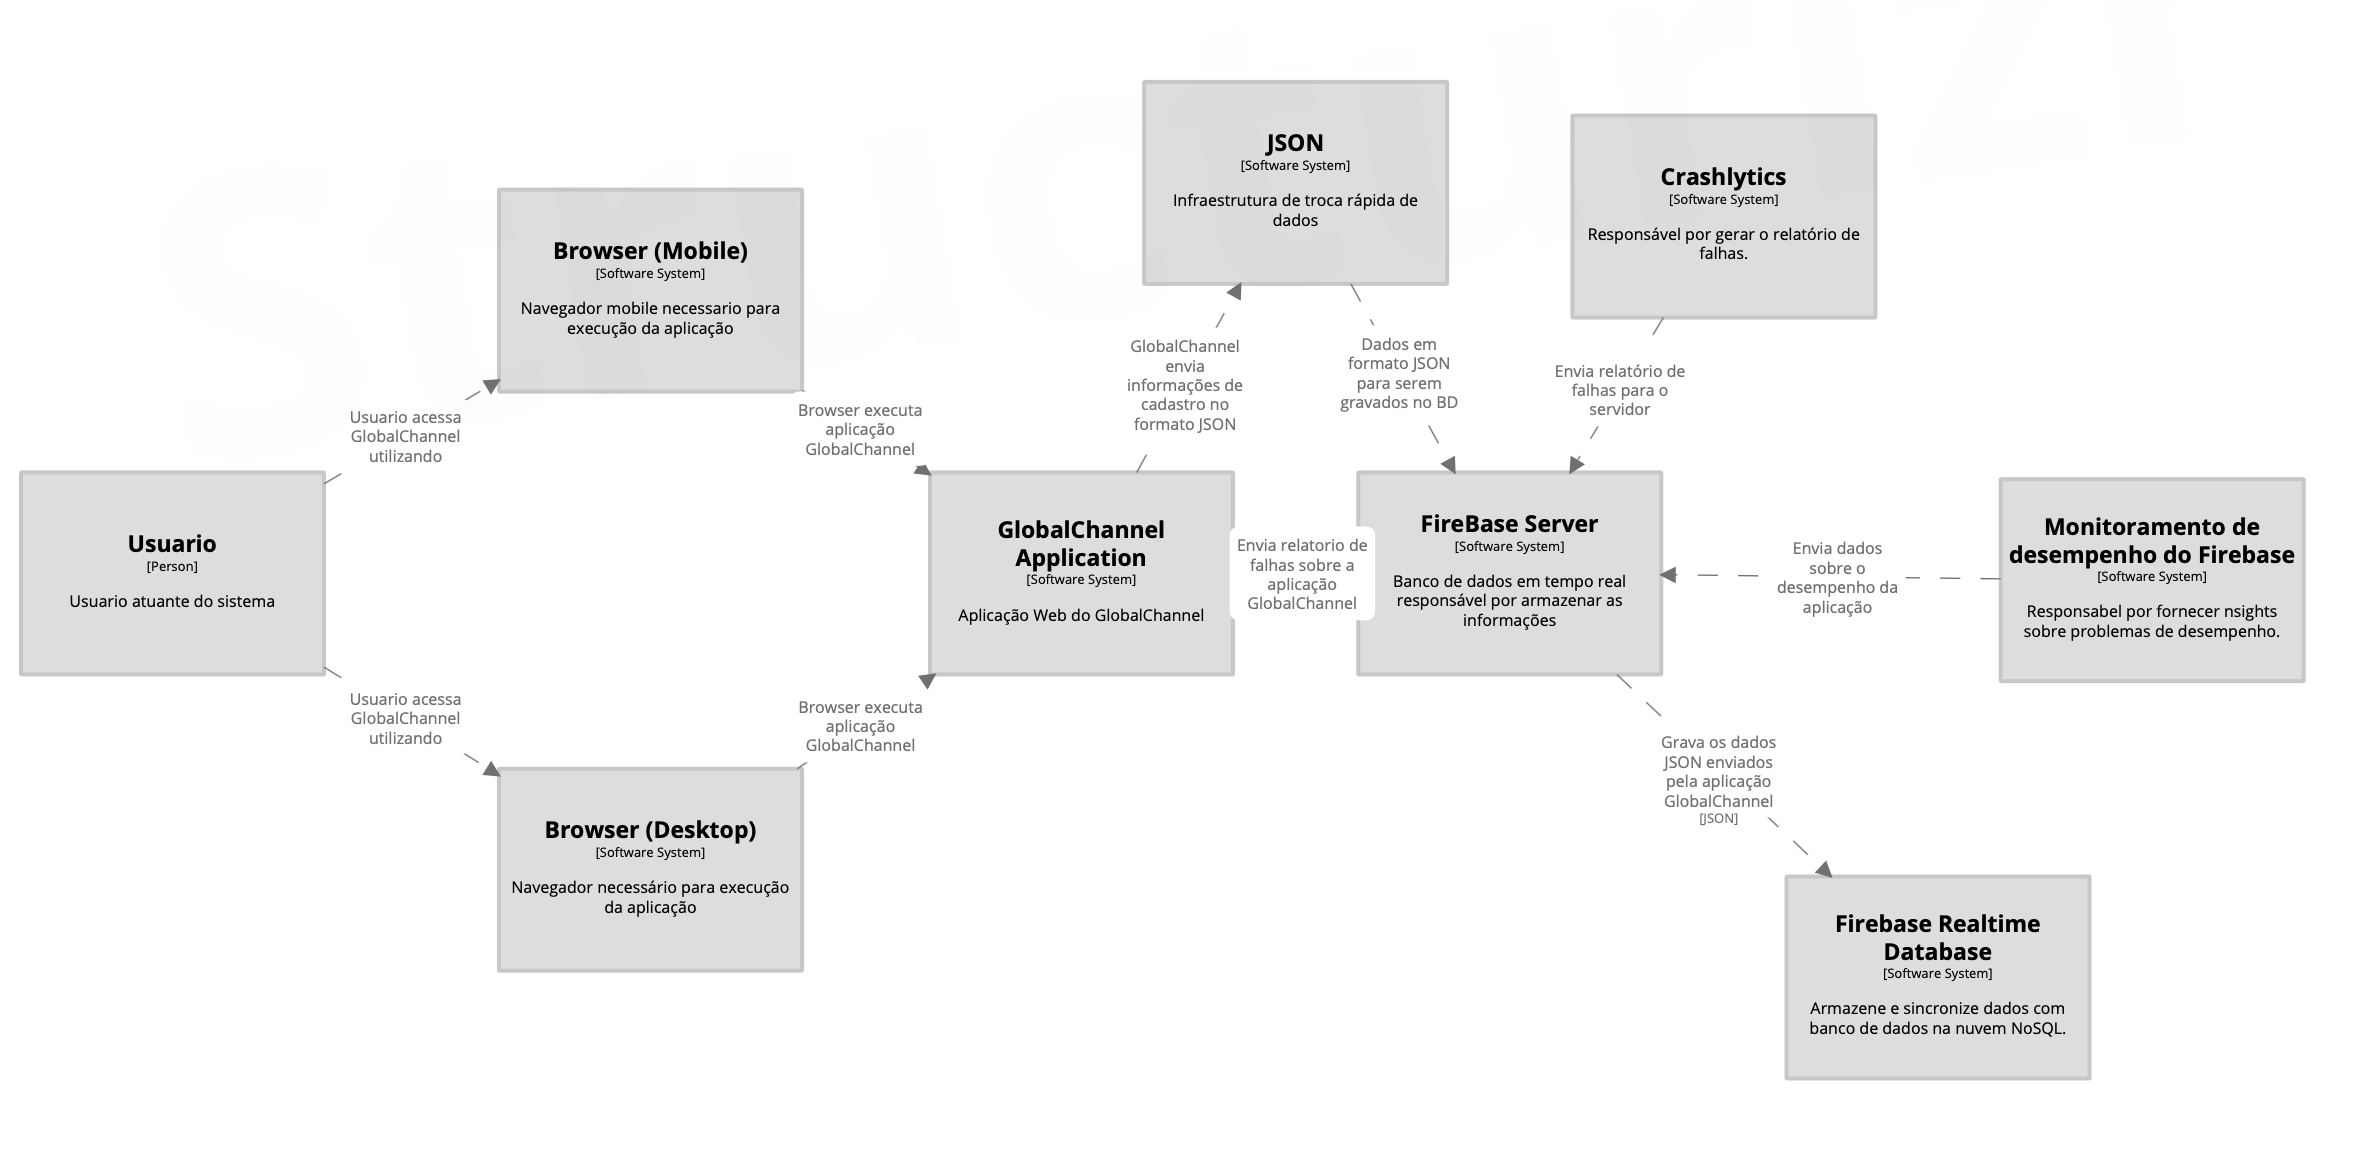
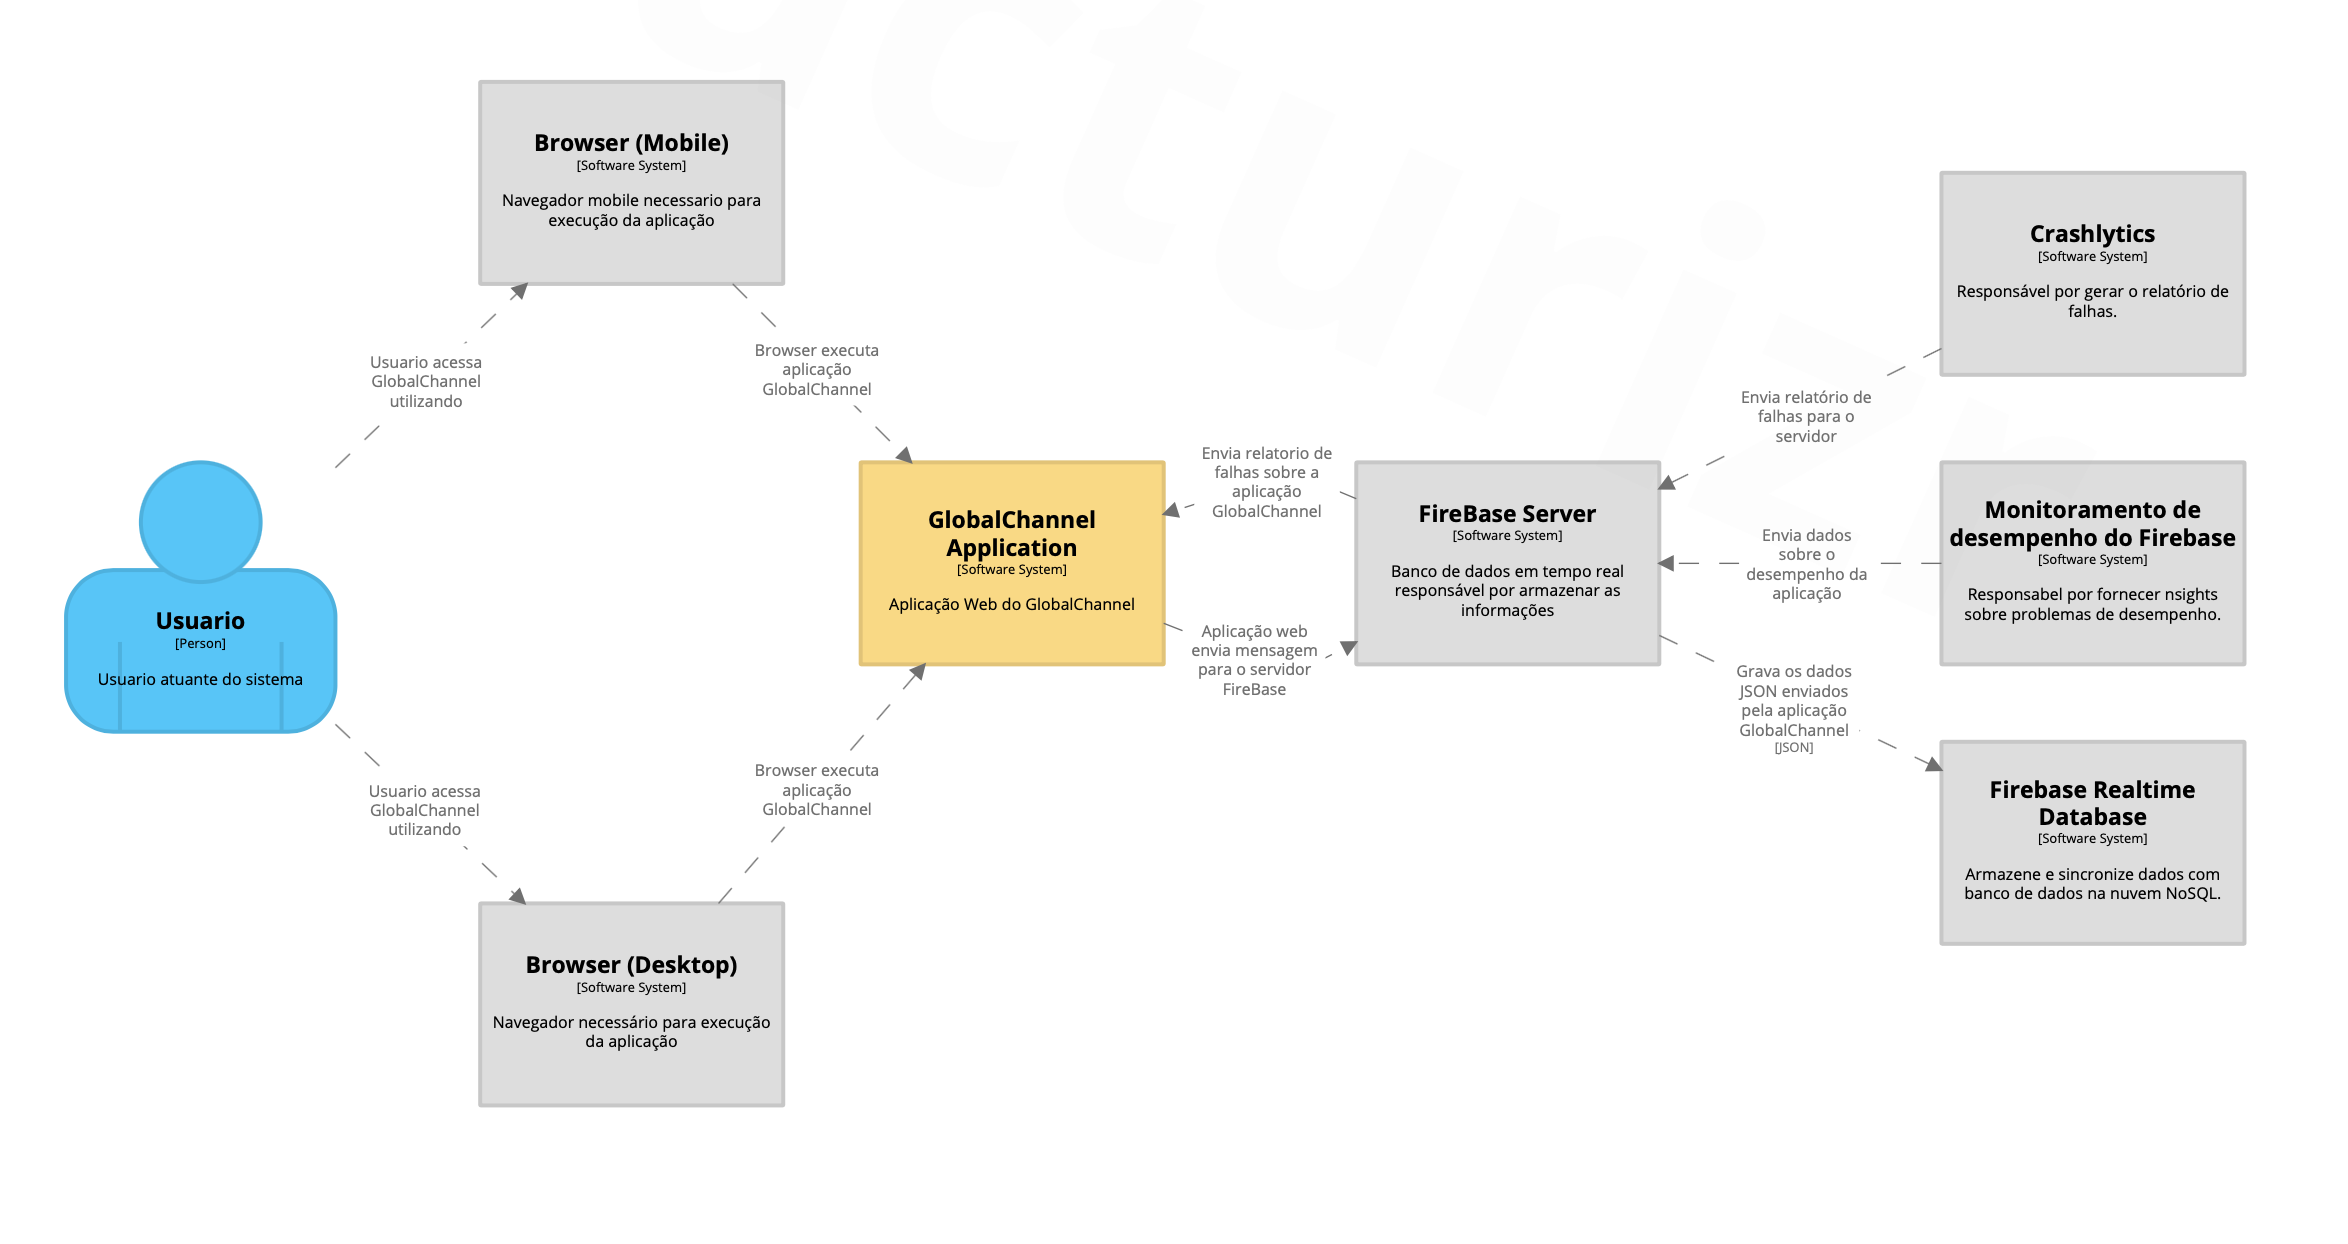
* Update Domentation v1.2 * Update Arquitetura.png

Changed region(s): [[0.0, 0.0609, 0.9638, 0.913], [0.7462, 0.3652, 0.9949, 0.9435], [0.7151, 0.6391, 0.7462, 0.7304]]

diff --git a/documentation/documentation.md b/documentation/documentation.md
@@ -6,6 +6,7 @@
 | ------ | ------------- | ------------------------ |
 | 1.0    | Rafael Postal | Criação do documento     |
 | 1.1    | Rafael Postal | Criação de versionamento |
+| 1.2    | Rafael Postal | Topico Documentação      |
 
 
 
@@ -25,6 +26,8 @@
 * JavaScript
 * CSS (não implementado na primeira entrega)
 * FireBase (Banco de Dados em Tempo Real)
+* Structurizr (Software para diagramação de arquitetura de software)
+* Typora (Criação de documentação de software)
 
 
 
@@ -44,7 +47,13 @@
 
 	O FireBase é um banco de dados em tempo real criado pela Google, este poderoso banco de dados possui versão *free*, que possibilita aos desenvolvedores criarem prototipos de projetos. Esta ferramenta é escalavel e segura, possui uma biblioteca completa chamada GoogleAnalytics que permite monitorar a performance do banco de dados em tempo real, possui ferramenta de geração de relatorio de erros Crashlytics e um Test Lab para realização de testes no app. O FireBase é um ferramenta web que dispensa instalações, você pode acessar o site e criar seu banco de dados neste link [FireBase][https://www.googleadservices.com/pagead/aclk?sa=L&ai=DChcSEwi2ldz_kLXuAhVryrMKHcUOAfwYABAAGgJxbg&ohost=www.google.com&cid=CAESQOD203WpCN7FhL56UZBWIBxmGXclIqcBd1mpV8oMk8UF4m88whsza21Wcob3fEAMAfIweqZ0E88psYcnH6azWxA&sig=AOD64_0Jg-oCC5czAQdsWnNW6PH0W3y-ZA&q&adurl&ved=2ahUKEwj7ktD_kLXuAhWIIrkGHWepDToQ0Qx6BAgbEAE]
 
+## Documentação
 
+### Structurizr
 
+	Para a criação de diagramas de arquitetura de software no formato C4 Model, foi utilizado o software Structurizr. Um software completo especificamente desenvolvido para o formato C4 Model.
 
+### Typora
+
+	Aplicação *free* multiplataforma que permite escrever documentação de software de forma organizada e ágil.
 
